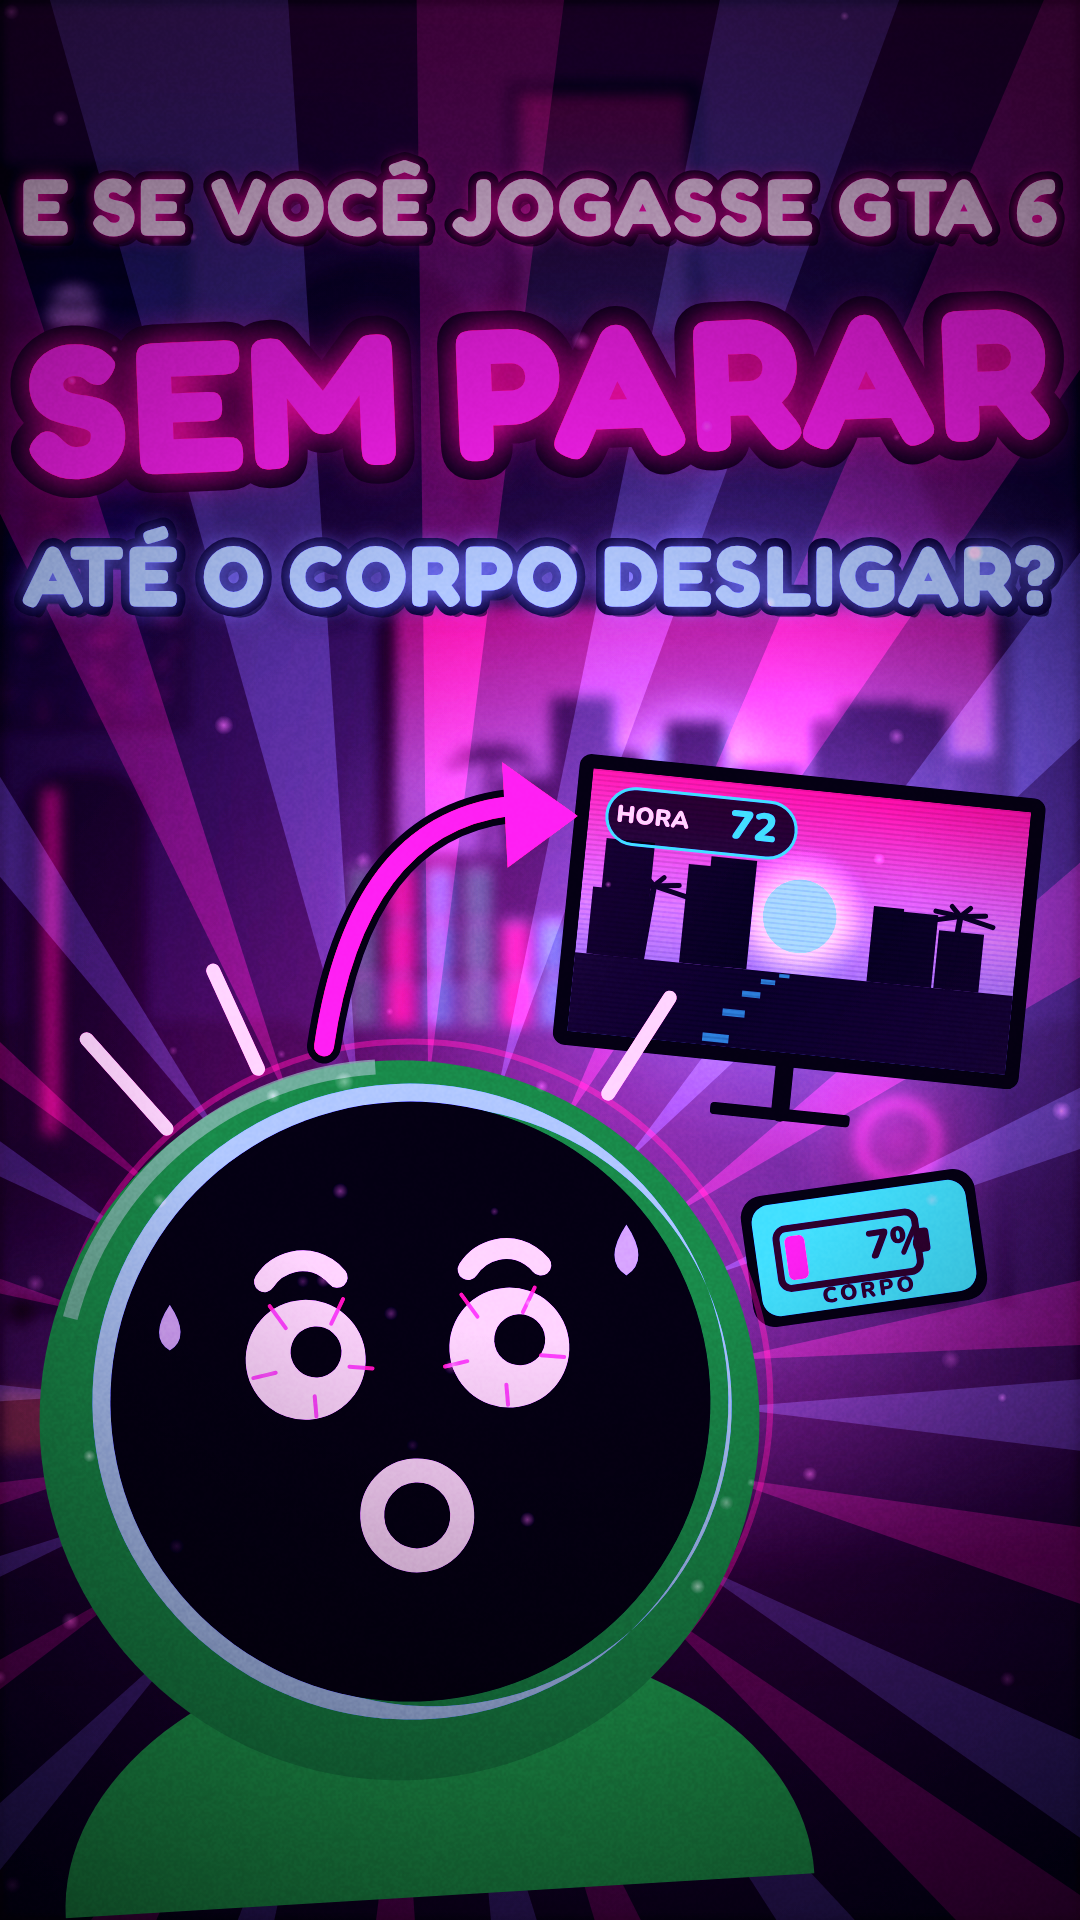
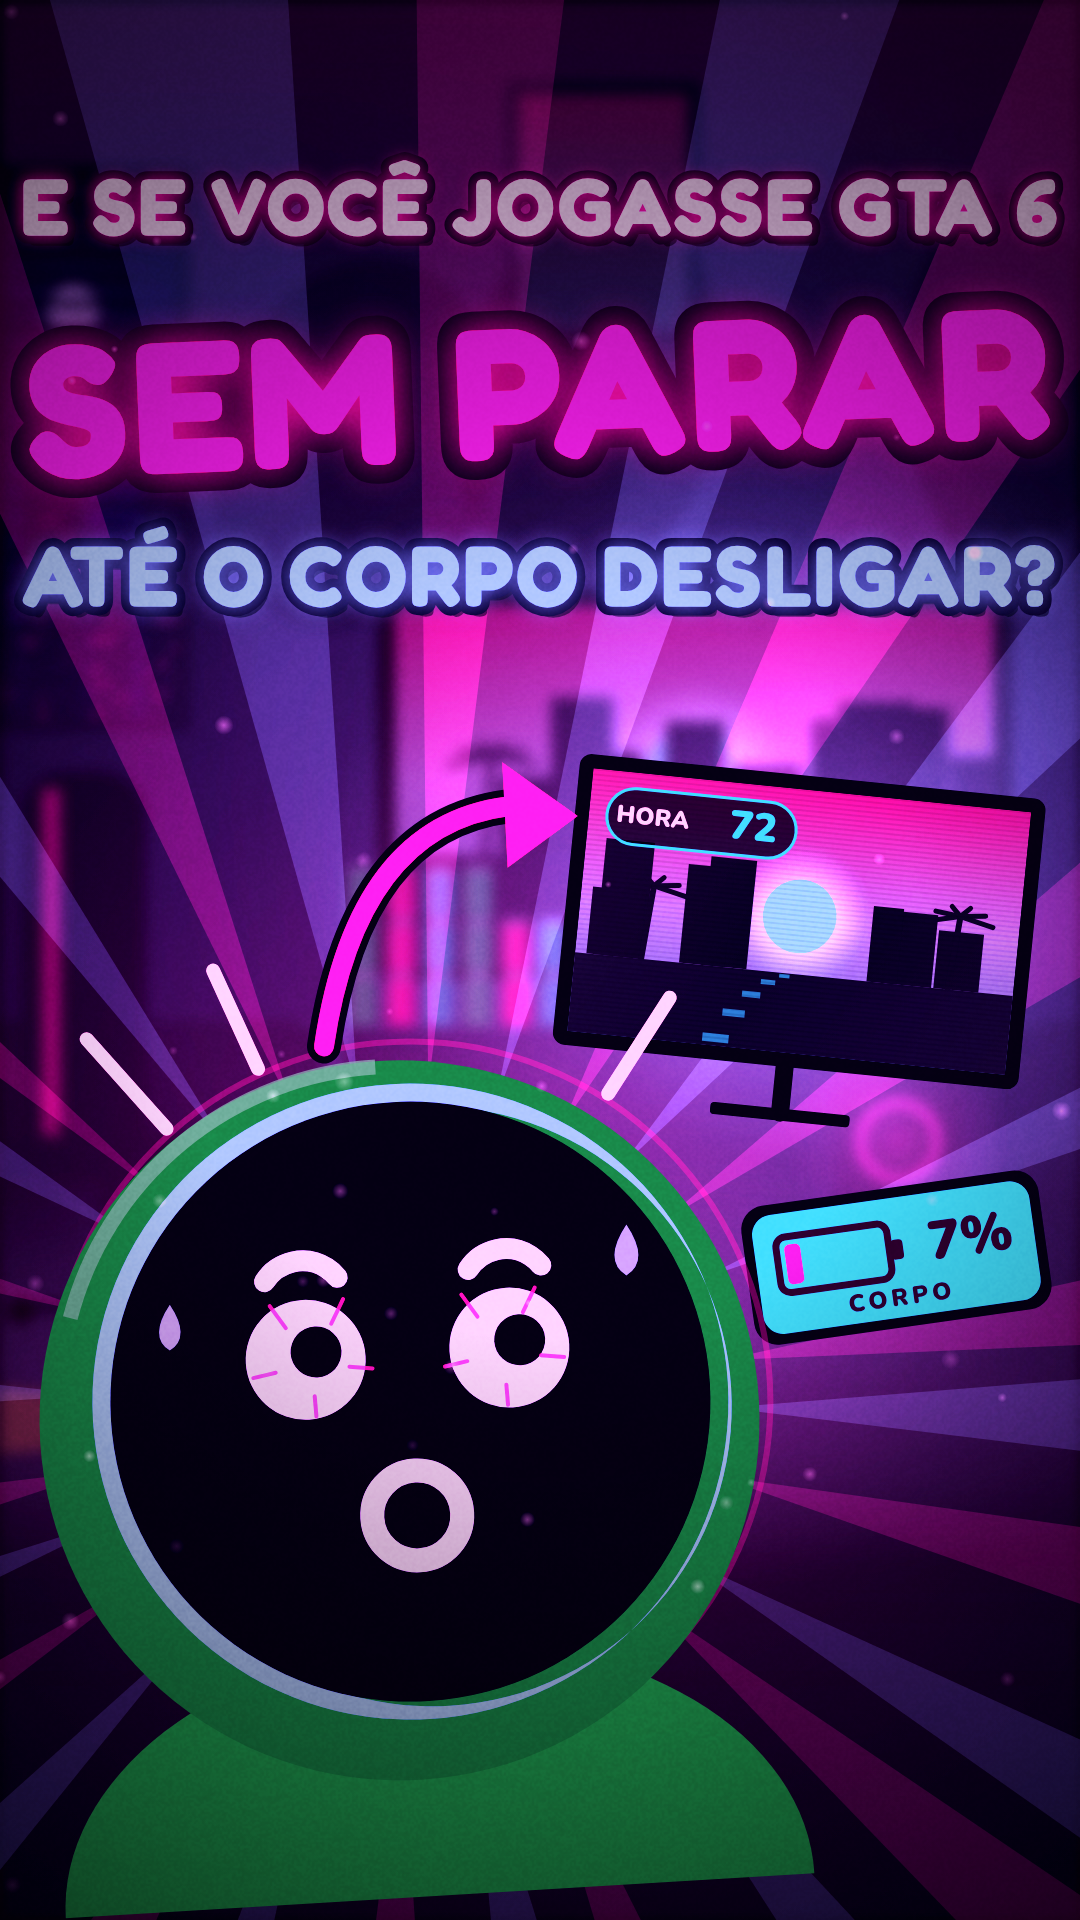
Fix the battery sticker on the GTA VI cover
The "7%" overlapped the battery terminal; the battery now sits on the left with the
percentage beside it, and the sticker moved clear of the hood.

Claude-Session: https://claude.ai/code/session_01EPiu7uphoHh4t1wLGPrp4x

Changed region(s): [[0.6722, 0.5938, 0.9778, 0.7188]]

diff --git a/aitrends-2d-studio/projects/gta-vi-capa/scenes/shots/cover.js b/aitrends-2d-studio/projects/gta-vi-capa/scenes/shots/cover.js
@@ -36,11 +36,12 @@ registerShot('cover', { draw(g, t, info) {
   seg(g, [[0, mh / 2 + 14], [0, mh / 2 + 60]], 18, '#06060a'); rr(g, -70, mh / 2 + 56, 140, 12, 4); g.fillStyle = '#06060a'; g.fill();
   g.restore();
   // body battery sticker (almost empty)
-  g.save(); g.translate(E.W * 0.8, E.H * 0.65); g.rotate(-0.14);
-  rr(g, -118, -66, 236, 132, 22); g.fillStyle = '#0a0410'; g.fill(); rr(g, -108, -56, 216, 112, 18); g.fillStyle = ui.gold; g.fill();
-  rr(g, -86, -30, 140, 60, 10); g.strokeStyle = '#2a1020'; g.lineWidth = 7; g.stroke(); rr(g, 54, -12, 12, 24, 4); g.fillStyle = '#2a1020'; g.fill();
-  rr(g, -78, -22, 20, 44, 6); g.fillStyle = RED; g.fill();
-  text(g, '7%', 34, 2, { size: 40, color: '#2a1020', font: FONTS.ui, weight: 900 }); text(g, 'CORPO', 0, 44, { size: 22, color: '#2a1020', font: FONTS.ui, weight: 900, spacing: 3 });
+  g.save(); g.translate(E.W * 0.83, E.H * 0.655); g.rotate(-0.14);
+  rr(g, -150, -70, 300, 140, 24); g.fillStyle = '#0a0410'; g.fill(); rr(g, -140, -60, 280, 120, 20); g.fillStyle = ui.gold; g.fill();
+  rr(g, -118, -36, 112, 56, 10); g.strokeStyle = '#2a1020'; g.lineWidth = 7; g.stroke(); rr(g, -4, -18, 12, 20, 4); g.fillStyle = '#2a1020'; g.fill();
+  rr(g, -110, -28, 16, 40, 5); g.fillStyle = RED; g.fill();
+  text(g, '7%', 76, -6, { size: 54, color: '#2a1020', font: FONTS.ui, weight: 900 });
+  text(g, 'CORPO', 0, 42, { size: 24, color: '#2a1020', font: FONTS.ui, weight: 900, spacing: 4 });
   g.restore();
   // the shocked gamer: wide eyes with red veins, sweat
   for (const k of [1.2, 1.1]) ring(g, cx, cy, r * k, 6, alpha(RED, 0.35 / k));
